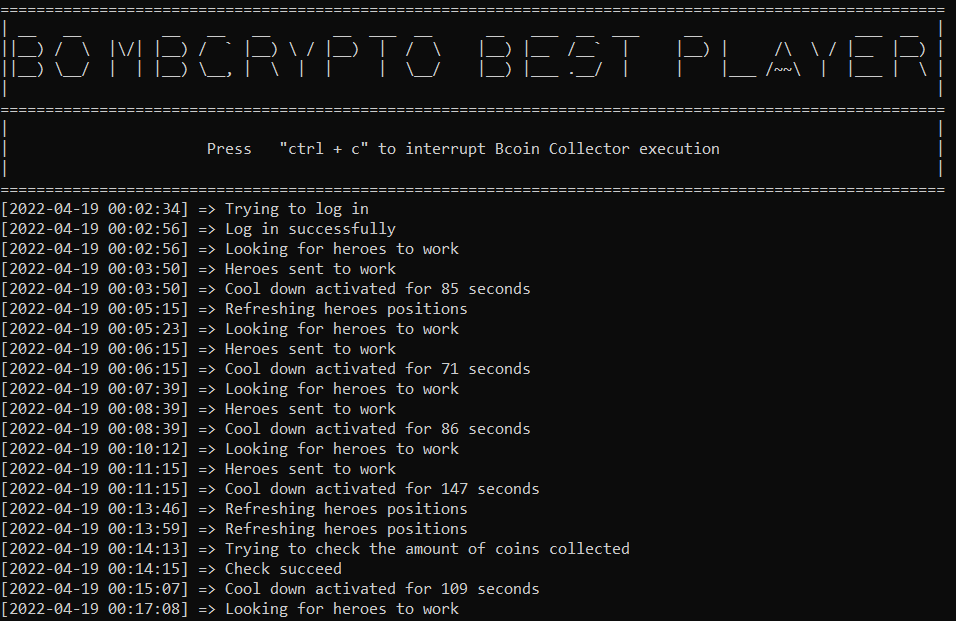
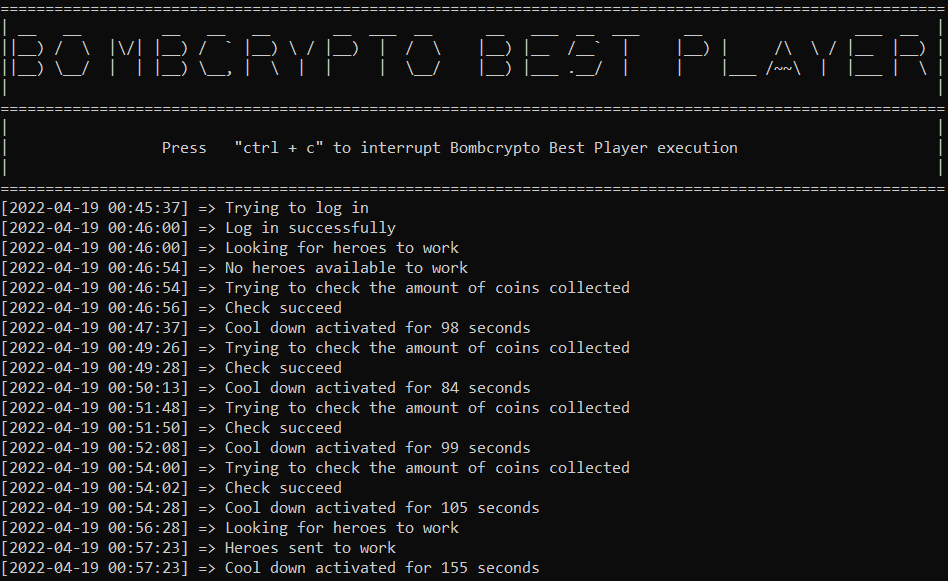
bot_preview image updated

Changed region(s): [[0.0, 0.0, 1.0, 0.9914], [0.5812, 0.4647, 0.673, 0.5267], [0.7036, 0.062, 0.7648, 0.1239]]

diff --git a/bombcrypto_best_player.py b/bombcrypto_best_player.py
@@ -34,7 +34,7 @@ print(r'||__) \__/  |  | |__) \__, |  \  |  |     |  \__/    |__) |___ .__/  |  
 print(r'|                                                                                                       |')
 print(r'=========================================================================================================')
 print(r'|                                                                                                       |')
-print(r'|                      Press   "ctrl + c" to interrupt Bcoin Collector execution                        |')
+print(r'|                 Press   "ctrl + c" to interrupt Bombcrypto Best Player execution                      |')
 print(r'|                                                                                                       |')
 print(r'=========================================================================================================')
 
